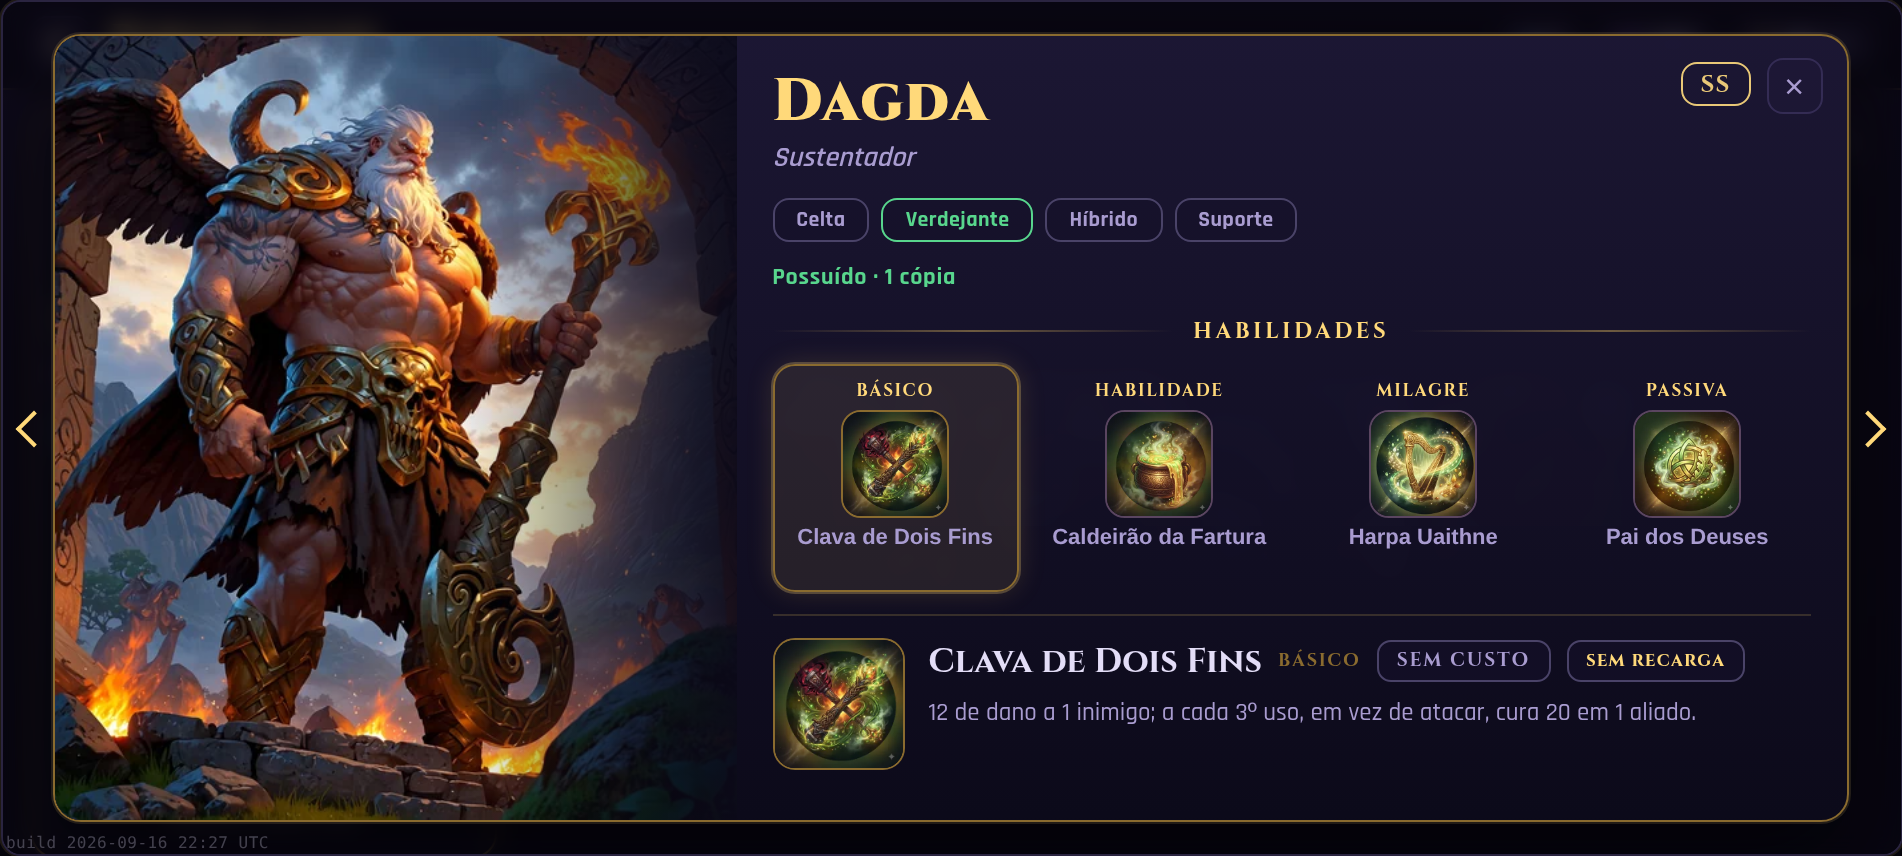
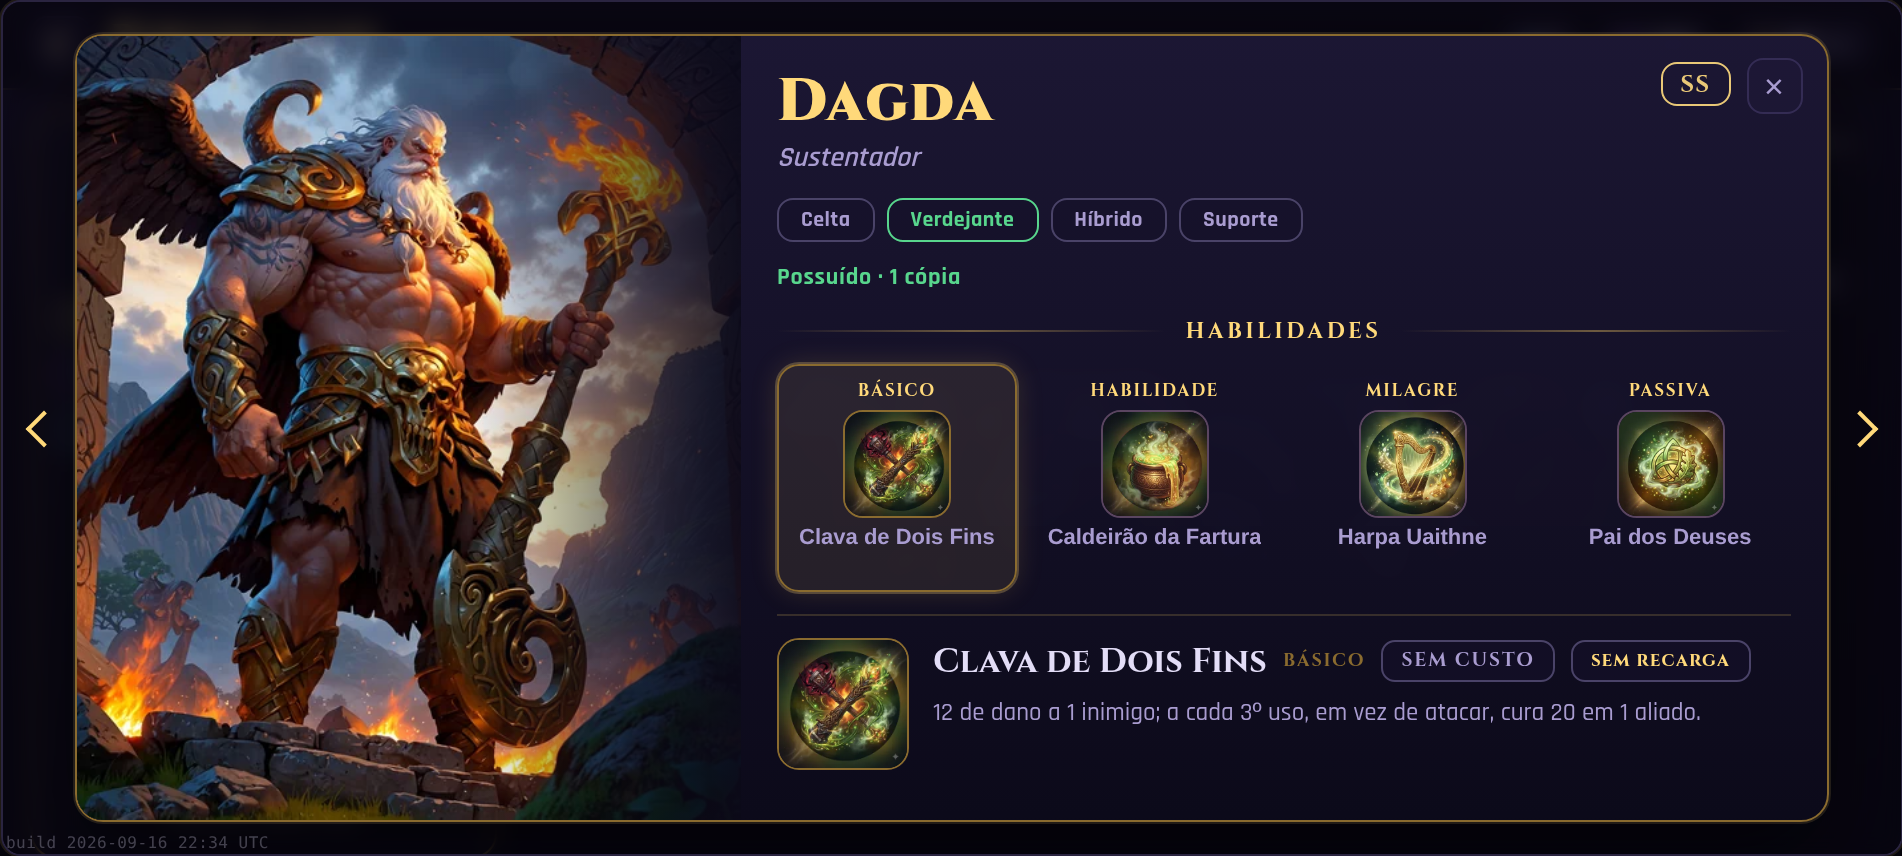
§291-ajuste: seta a 30px, cartão encolhido para 879
O dono escolheu 30px (não 27, não 44). 30 põe a seta no patamar do
col2__voltar da Coleção — o controle mais próximo em função — e custa só
18px de cartão (2%, imperceptível); 27 ficava abaixo de todos os controles
primários e a seta aqui é o jeito de navegar a ficha. Recusados os 44
(-42px, ~5% do cartão que o dono dimensionou do mockup; 44 é piso de app
genérico que o projeto nunca adotou).

Aplicado: cartão width min(879px, calc(100% - 48px)) -> 877×394 no palco
951, calha 37px/lado; seta 30px a 3px da borda.

Medido depois (não consertei nada porque nada cortou): split interno
mantido (retrato 38,0% / conteúdo 61,9%, §288 38/62, é por flex); 0/100
cortes -> nome do deus, nomes de habilidade em 2 linhas (§288-ajuste, hel
incluso, seguem em 2) e texto de efeito, todos intactos com os 18px a menos.
Capturas de docs/capturas-291/ refeitas com a seta de 30px.

Arquivos: src/shell.html (.col2ov__card width, .col2ov__nav), DECISOES.md,
ESTADO.md. Suíte (46) + build verdes.

Claude-Session: https://claude.ai/code/session_01RXkcJMEMadTZtCymgt9Yf6

diff --git a/src/shell.html b/src/shell.html
@@ -1469,7 +1469,10 @@ body{font-family:'Rajdhani',sans-serif;color:var(--ink);display:grid;place-items
    em vez de casar a proporção 1.8:1 da referência (que desperdiçaria metade da largura). */
 .col2ov{position:absolute;inset:0;z-index:40;display:grid;place-items:center;padding:12px;
   background:rgba(6,5,14,.6);backdrop-filter:blur(6px) saturate(.9);-webkit-backdrop-filter:blur(6px) saturate(.9)}
-.col2ov__card{position:relative;display:flex;width:min(920px,97%);height:min(408px,calc(100% - 8px));
+/* §291-ajuste: cartão 897→879 (−18px, −2%) p/ abrir a calha das setas a 36px/lado (seta de 30px + 3px de folga
+   — o patamar do col2__voltar). calc(100% - 48px): 100% = content-box do #col2ov (palco − 24 de padding); −48
+   reserva 24 de cada lado → com o padding, 36/lado. O split interno (retrato 38%/conteúdo 62%) é por flex, não muda. */
+.col2ov__card{position:relative;display:flex;width:min(879px,calc(100% - 48px));height:min(408px,calc(100% - 8px));
   overflow:hidden;border:1px solid var(--gold-soft);border-radius:14px;
   background:linear-gradient(180deg,rgba(28,23,52,.98),rgba(12,10,26,.99));box-shadow:0 0 0 1px rgba(255,217,122,.12),0 18px 50px rgba(0,0,0,.6)}
 .col2ov--falta{border-color:#39335a;border-style:dashed}
@@ -1542,9 +1545,9 @@ body{font-family:'Rajdhani',sans-serif;color:var(--ink);display:grid;place-items
 /* §291: setas de navegação — POR FORA do cartão, sobre o fundo desfocado. O `left:0`/`right:0` ancora na borda do
    palco (padding-box do #col2ov), então a seta ocupa a calha de ~27px entre a borda do palco e o cartão (897 em
    951). É estreita (o dono decide se encolhe o cartão p/ um alvo maior — ver DECISOES §291); alta p/ compensar. */
-.col2ov__nav{position:absolute;top:50%;transform:translateY(-50%);width:27px;height:140px;z-index:41;
+.col2ov__nav{position:absolute;top:50%;transform:translateY(-50%);width:30px;height:140px;z-index:41;
   display:flex;align-items:center;justify-content:center;cursor:pointer;background:transparent;border:none;padding:0;color:var(--gold-text)}
-.col2ov__nav--prev{left:0} .col2ov__nav--next{right:0}
+.col2ov__nav--prev{left:3px} .col2ov__nav--next{right:3px}
 .col2ov__nav:disabled{opacity:.22;cursor:default}
 .col2ov__navseta{display:block;width:13px;height:13px;border-top:2px solid currentColor;border-right:2px solid currentColor}
 .col2ov__nav--prev .col2ov__navseta{transform:rotate(-135deg);margin-left:5px}

diff --git a/ESTADO.md b/ESTADO.md
@@ -4,7 +4,7 @@
 
 ## ★ COLEÇÃO §291 — setas de navegação na sobreposição de detalhe: passa de deus sem fechar. Só tela/teste.
 
-Com a ficha aberta, ir ao próximo deus sem fechar e reselecionar. Duas setas, uma de cada lado, POR FORA do cartão (sobre o fundo desfocado). **Geometria (medida, pedida antes):** cartão 897 no palco 951 → **~27px de calha/lado** (12 são padding). Piso tocável do projeto: **sem 44px documentado; controles primários 28–34px** (col2ov__x 28, col2__voltar 30, b--md/dsel__voltar 34). **27<34** → NÃO comporta a seta no tamanho confortável. **NÃO encolhi o cartão** (dimensionado no §288); servi a seta na calha como **faixa alta** (27×140). Encolher p/ alvo maior é decisão do dono: 34px→cartão 875 (−22); 30px→879 (−18); 44px→855 (−42).
+Com a ficha aberta, ir ao próximo deus sem fechar e reselecionar. Duas setas, uma de cada lado, POR FORA do cartão (sobre o fundo desfocado). **Geometria (medida, pedida antes):** cartão 897 no palco 951 → **~27px de calha/lado** (12 são padding). Piso tocável do projeto: **sem 44px documentado; controles primários 28–34px** (col2ov__x 28, col2__voltar 30, b--md/dsel__voltar 34). **27<34** → não comportava a seta confortável. **§291-ajuste (dono decidiu):** seta **30px** (patamar do `col2__voltar`, o controle mais próximo em função), **cartão 897→879** (`min(879px,calc(100% - 48px))`, −18px/−2%). Recusados os 44 (−42px/~5%, piso de app genérico que o projeto não adota). Medido depois: **split interno mantido (retrato 38,0%/conteúdo 61,9%)** e **0/100 cortes** — nome, nomes de habilidade em 2 linhas (§288-ajuste, hel incluso) e efeito, todos intactos com os 18px a menos. Card medido **877×394, calha 37/lado**, seta 30px a 3px da borda.
 
 **Comportamento:** ordem = a da GRADE (`colecaoFiltrada` — filtro/busca/ordem), nunca os 100; **o SLOT permanece** ao trocar (`colVerSel`) → ferramenta de comparação (cai no básico só se faltar o slot — **os 100 têm os 4, caso não existe hoje**); a **seleção do painel acompanha** (`colSelecionar`) e a **grade rola** até o deus (`scrollIntoView`) → fechar deixa no último visto, visível (§284); **extremos:** seta apagada (opacity .22), **sem dar a volta**; **§240 mantido** (voltar do Android fecha a sobreposição). **Troca rápida (§289):** `colVerIr` troca **só o cartão** (fundo fica → sem piscar); o retrato pequeno embutido cobre enquanto o grande (arquivo sob demanda) carrega — sem branco/tremida (mesma caixa 340×392, grande é `position:absolute`).
 

diff --git a/DECISOES.md b/DECISOES.md
@@ -49,6 +49,21 @@ o fundo desfocado fica → **sem piscar**. O retrato pequeno embutido cobre a ca
 **Arquivos:** `src/ui/home.js` (colOverlayCardHTML/colVerNavEstado/colVerIr/colVerMontar/colVerAtualizarNav),
 `src/shell.html` (`.col2ov__nav`), `tests/colecao_tela.test.js`. Suíte (46) + build verdes.
 
+### §291-ajuste — seta a 30px, cartão encolhido para 879.
+
+O dono escolheu **30px** (não 27, não 44). O porquê dele: 27 funciona como faixa alta, mas fica abaixo de TODOS os
+controles primários, e a seta aqui é o jeito de navegar a ficha, não algo secundário; **30 a põe no patamar do
+`col2__voltar` da Coleção** (o controle mais próximo em função) e custa só 18px de cartão (2%, imperceptível). Os
+44 foram recusados: custam 42px (~5% do cartão que o dono dimensionou do mockup), e 44 é piso de app genérico que
+este projeto nunca adotou — **seguir o que o jogo já faz vale mais que um número de fora**.
+
+Aplicado: cartão `width: min(879px, calc(100% - 48px))` → **877×394** no palco 951, **calha 37px/lado**; seta 30px
+a 3px da borda (`.col2ov__nav width:30; left/right:3`). **MEDIDO depois:** o **split interno se manteve — retrato
+38,0% / conteúdo 61,9%** (§288 38/62, é por flex, não muda com a largura); e **NADA passou a cortar** com os 18px
+a menos: nome do deus **0/100**, **nomes de habilidade em 2 linhas (§288-ajuste) 0/100** (nenhum estourou p/ 3
+linhas — os que estavam no limite, hel incluso, seguem em 2), efeito **0/100**. Capturas de `docs/capturas-291/`
+refeitas com a seta de 30px.
+
 ---
 
 ## §290 — os 100 retratos grandes chegaram: fecha o §289.
